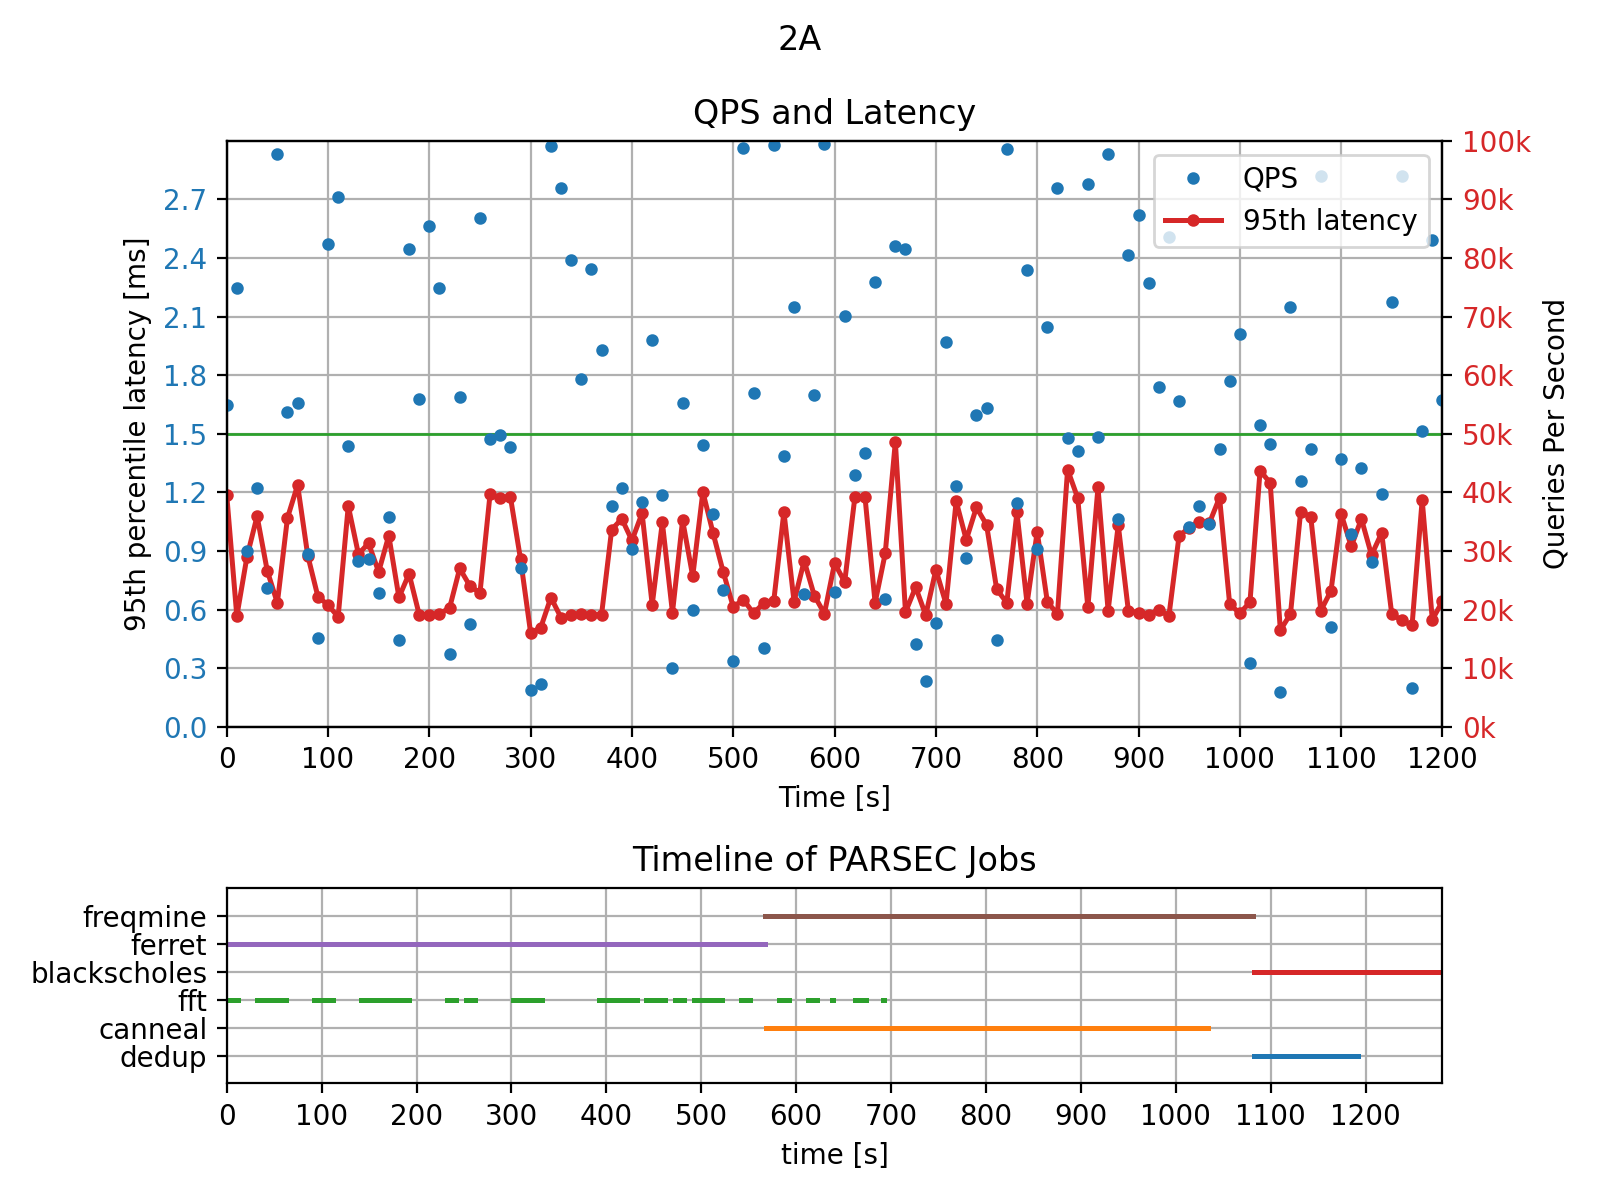
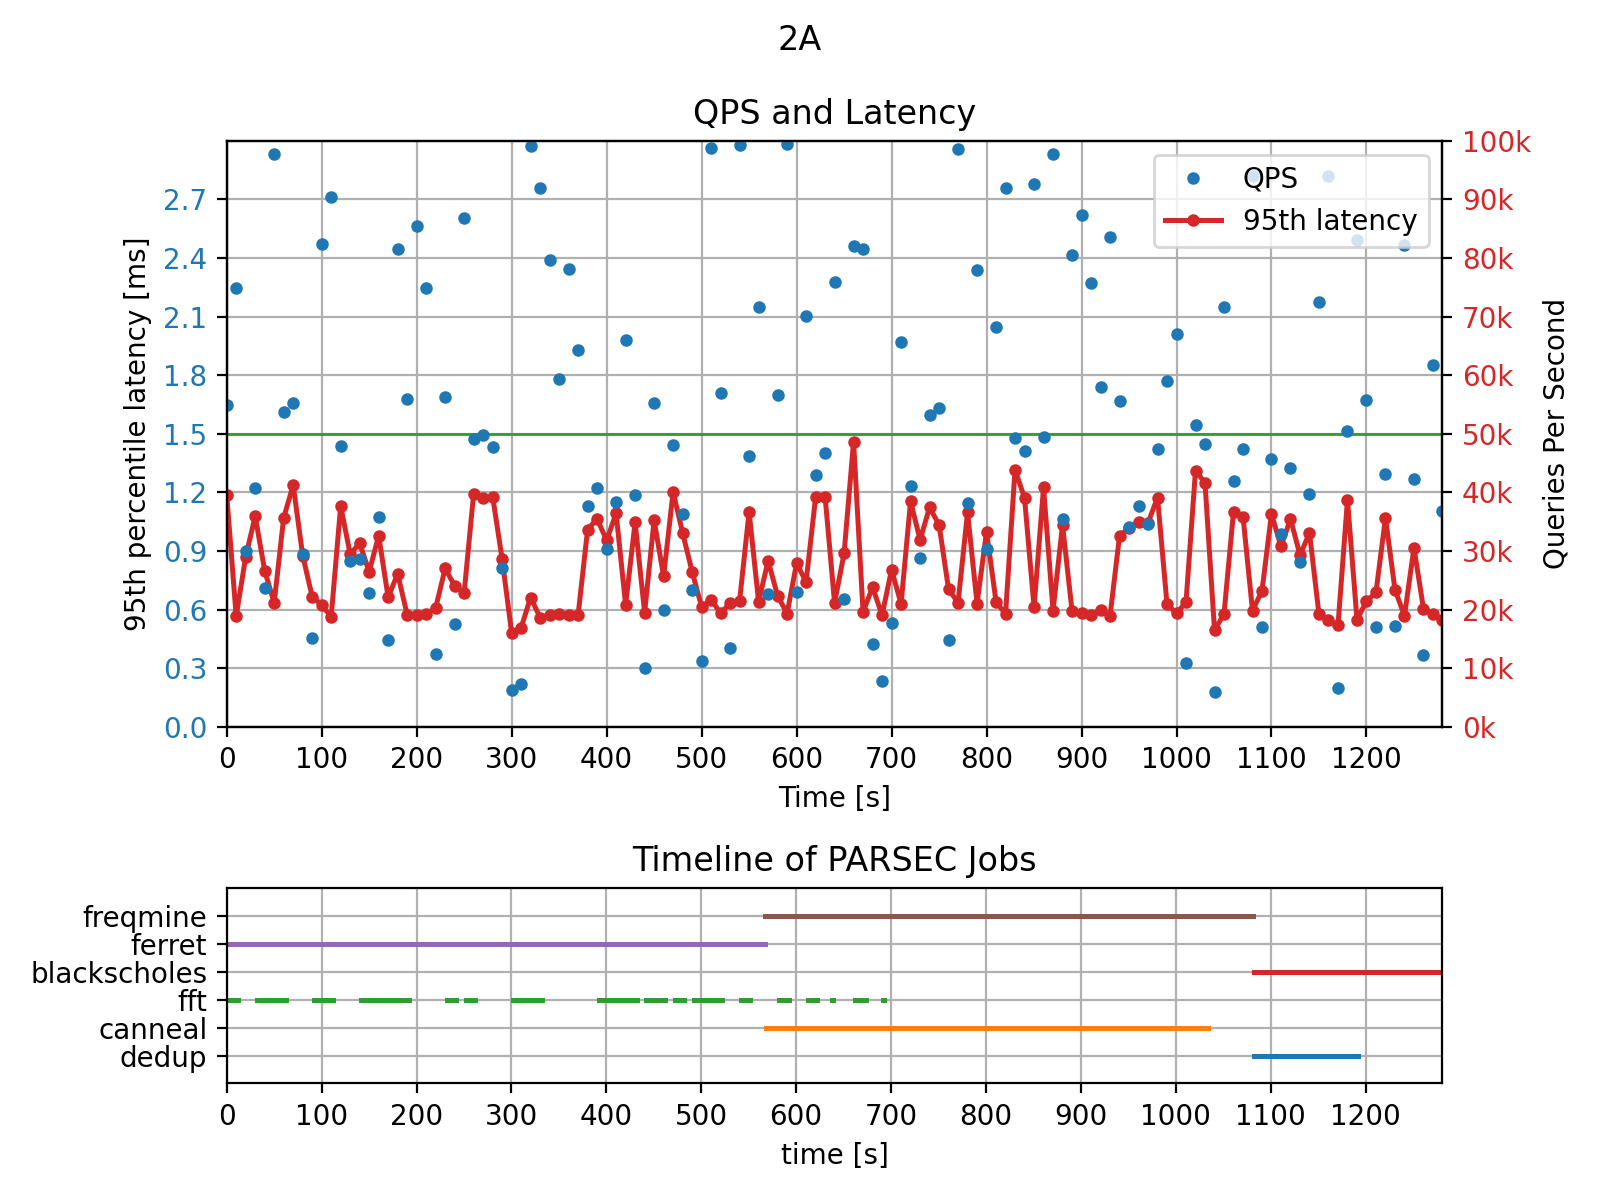
plot

diff --git a/plot4.py b/plot4.py
@@ -130,9 +130,9 @@ def read_cpu_change(memcached_file, shift):
 #print(read_cpu_change(memcached_file))
 
 ###### 2. subplot_a: plot QPS and latency  ######
-def plot_latency(axA_95p):
+def plot_latency(axA_95p, x_length):
     axA_95p.set_title("QPS and Latency")
-    axA_95p.set_xlim([0, 16])
+    axA_95p.set_xlim([0, x_length])
     axA_95p.set_xlabel("Time [s]")
     axA_95p.set_xticks(range(0, int(x_length) + 1, 100))
     axA_95p.grid(True)
@@ -152,9 +152,9 @@ def plot_qps(axA_QPS):
     axA_QPS.tick_params(axis='y', labelcolor='tab:red')
 
 ###### 3. subplot_b: jobs time  ######
-def plot_mc(axB_mc):
+def plot_mc(axB_mc, x_length):
     axB_mc.set_title("Memcached CPU")
-    axB_mc.set_xlim([0, 16])
+    axB_mc.set_xlim([0, x_length])
     axB_mc.set_xlabel("Time [s]")
     axB_mc.set_xticks(range(0, int(x_length) + 1, 100))
     axB_mc.grid(True)
@@ -167,7 +167,7 @@ def plot_mc(axB_mc):
 
 
 
-def plot_jobs(ax_events, jobs_time):
+def plot_jobs(ax_events, jobs_time, x_length):
     workloads = ['dedup', 'canneal', 'fft', 'blackscholes', 'ferret', 'freqmine']
 
     ax_events.set_title("Timeline of PARSEC Jobs")
@@ -220,13 +220,13 @@ if __name__ == "__main__":
 
         axA_95p, ax_events = fig.subplots(2, 1, gridspec_kw={'height_ratios': [3, 1]})
         axA_QPS = axA_95p.twinx()
-        plot_latency(axA_95p)
+        plot_latency(axA_95p, x_length)
         plot_qps(axA_QPS)
         artistA_95p, = axA_95p.plot(x_label, p95, 'o-', markersize=3.5, linewidth=1.8, color='tab:red')
         axA_95p.plot(x_label, [1.5 for x in x_label], '-', linewidth=1, color='tab:green')
         artistA_QPS, = axA_QPS.plot(x_label, QPS, 'o', markersize=3.5, color='tab:blue')    
         plt.legend([artistA_QPS, artistA_95p], ['QPS', '95th latency'], loc='upper right')
-        plot_jobs(ax_events, jobs_time)
+        plot_jobs(ax_events, jobs_time, x_length)
         fig.tight_layout()
 
 
@@ -235,7 +235,7 @@ if __name__ == "__main__":
 
         axB_mc = fig2.subplots()
         axB_QPS = axB_mc.twinx()
-        plot_mc(axB_mc)
+        plot_mc(axB_mc, x_length)
         plot_qps(axB_QPS)
         artistB_mc, = axB_mc.plot(mem_cpu[0][0],mem_cpu[1][0], '-', color='tab:red', linewidth=2)
         for i in range(1,len(mem_cpu[0])):
